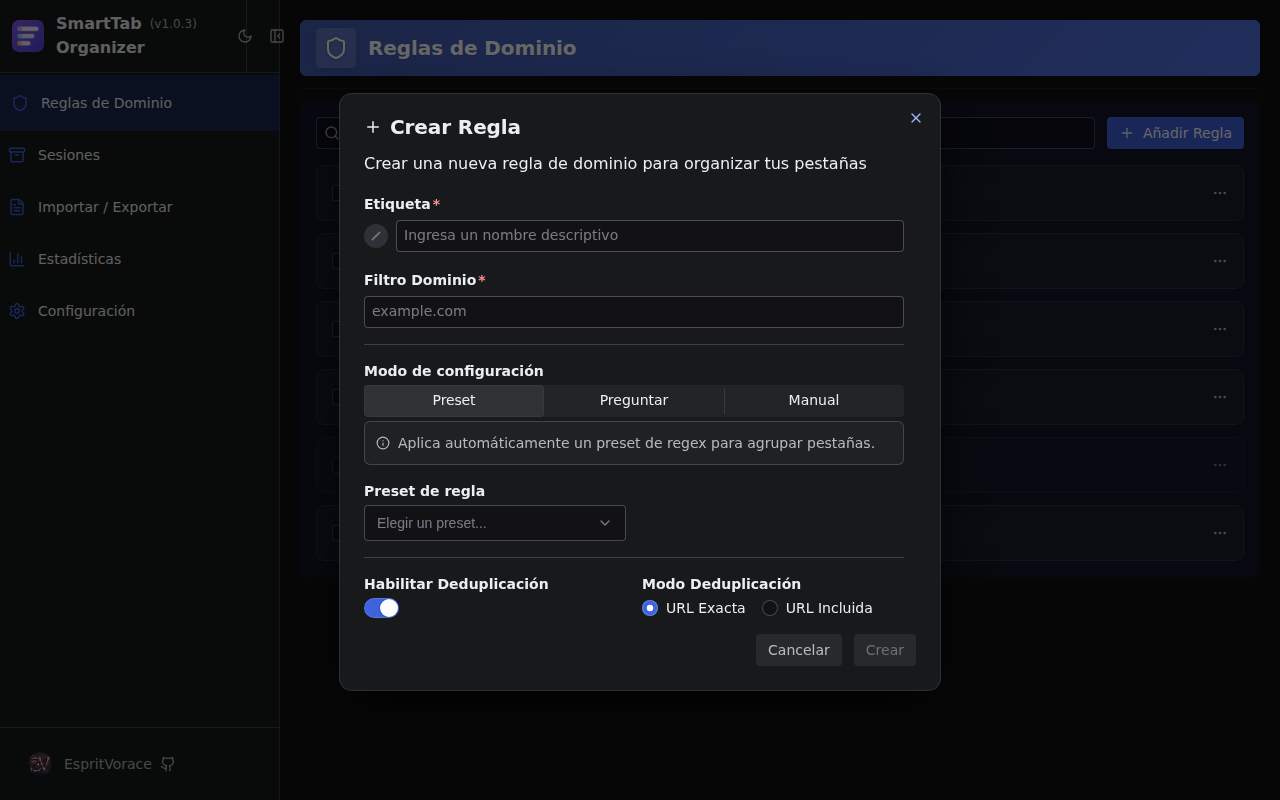
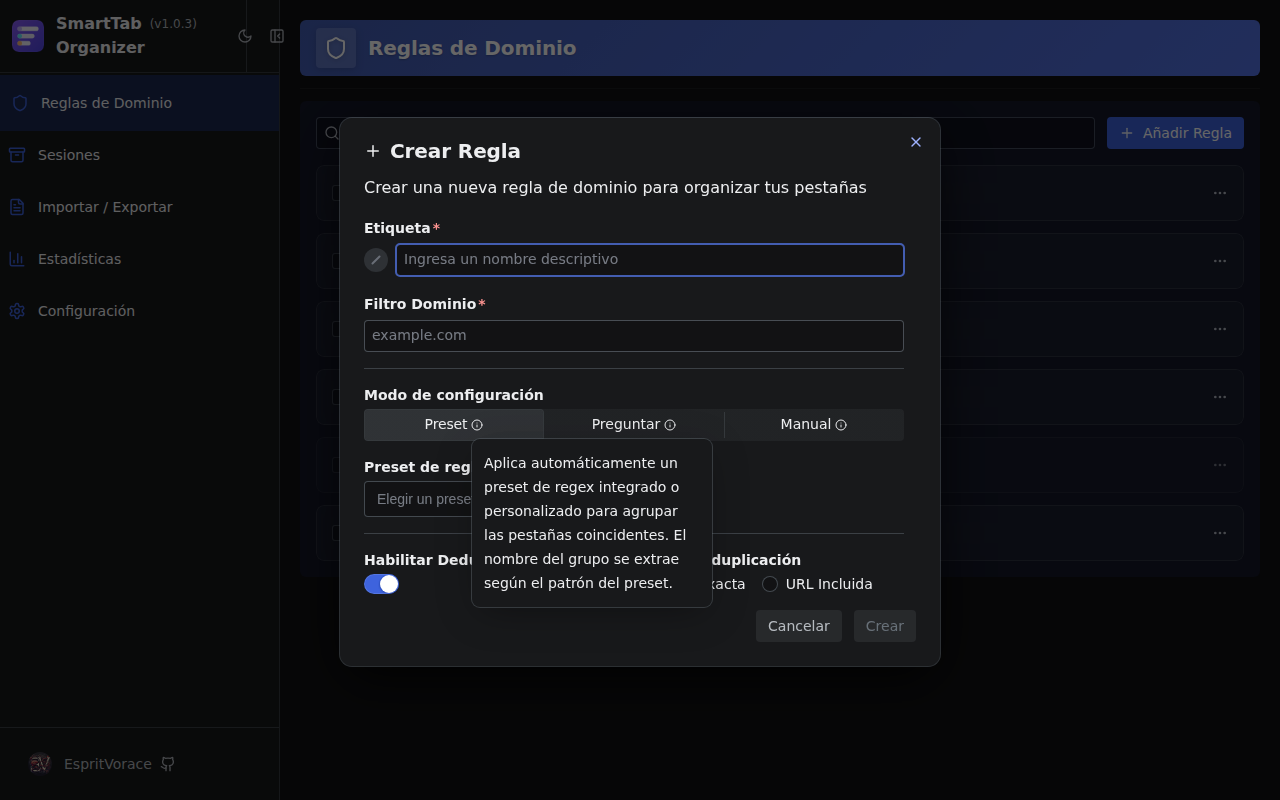
Regenerate rules-create-* screenshots with config mode HoverCards
Fix strict-mode locator error (.first() on svg inside SegmentedControl.Item
which renders its content twice in the DOM). All 42 screenshots pass.
The HoverCard tooltip is now visible in the 18 rules-create-* PNGs
(3 modes × 3 locales × 2 themes).

https://claude.ai/code/session_01V1XPEdsjrKCo2cgyjYupD3

Changed region(s): [[0.2812, 0.125, 0.6875, 0.8125], [0.6875, 0.7812, 0.7188, 0.8125]]

diff --git a/e2e-screenshots/pages/rules.screenshots.ts b/e2e-screenshots/pages/rules.screenshots.ts
@@ -57,8 +57,10 @@ test.describe('Rules screenshots', () => {
 
         // Preset is the default mode (index 0). Hover over its (i) icon to
         // reveal the HoverCard description.
+        // SegmentedControl.Item renders its content twice in the DOM (Radix
+        // animation technique), so .first() is needed to avoid strict-mode error.
         const items = page.locator('[role="dialog"] button.rt-SegmentedControlItem');
-        await items.nth(0).locator('svg').hover();
+        await items.nth(0).locator('svg').first().hover();
         // Wait for HoverCard openDelay (300 ms) + render
         await page.waitForTimeout(500);
       },
@@ -88,7 +90,7 @@ test.describe('Rules screenshots', () => {
         await items.nth(1).click();
         await page.waitForTimeout(200);
         // Hover over the Ask (i) icon to reveal its HoverCard.
-        await items.nth(1).locator('svg').hover();
+        await items.nth(1).locator('svg').first().hover();
         await page.waitForTimeout(500);
       },
     );
@@ -116,7 +118,7 @@ test.describe('Rules screenshots', () => {
         const items = page.locator('[role="dialog"] button.rt-SegmentedControlItem');
         await items.last().click();
         await page.waitForTimeout(200);
-        await items.last().locator('svg').hover();
+        await items.last().locator('svg').first().hover();
         await page.waitForTimeout(500);
       },
     );
